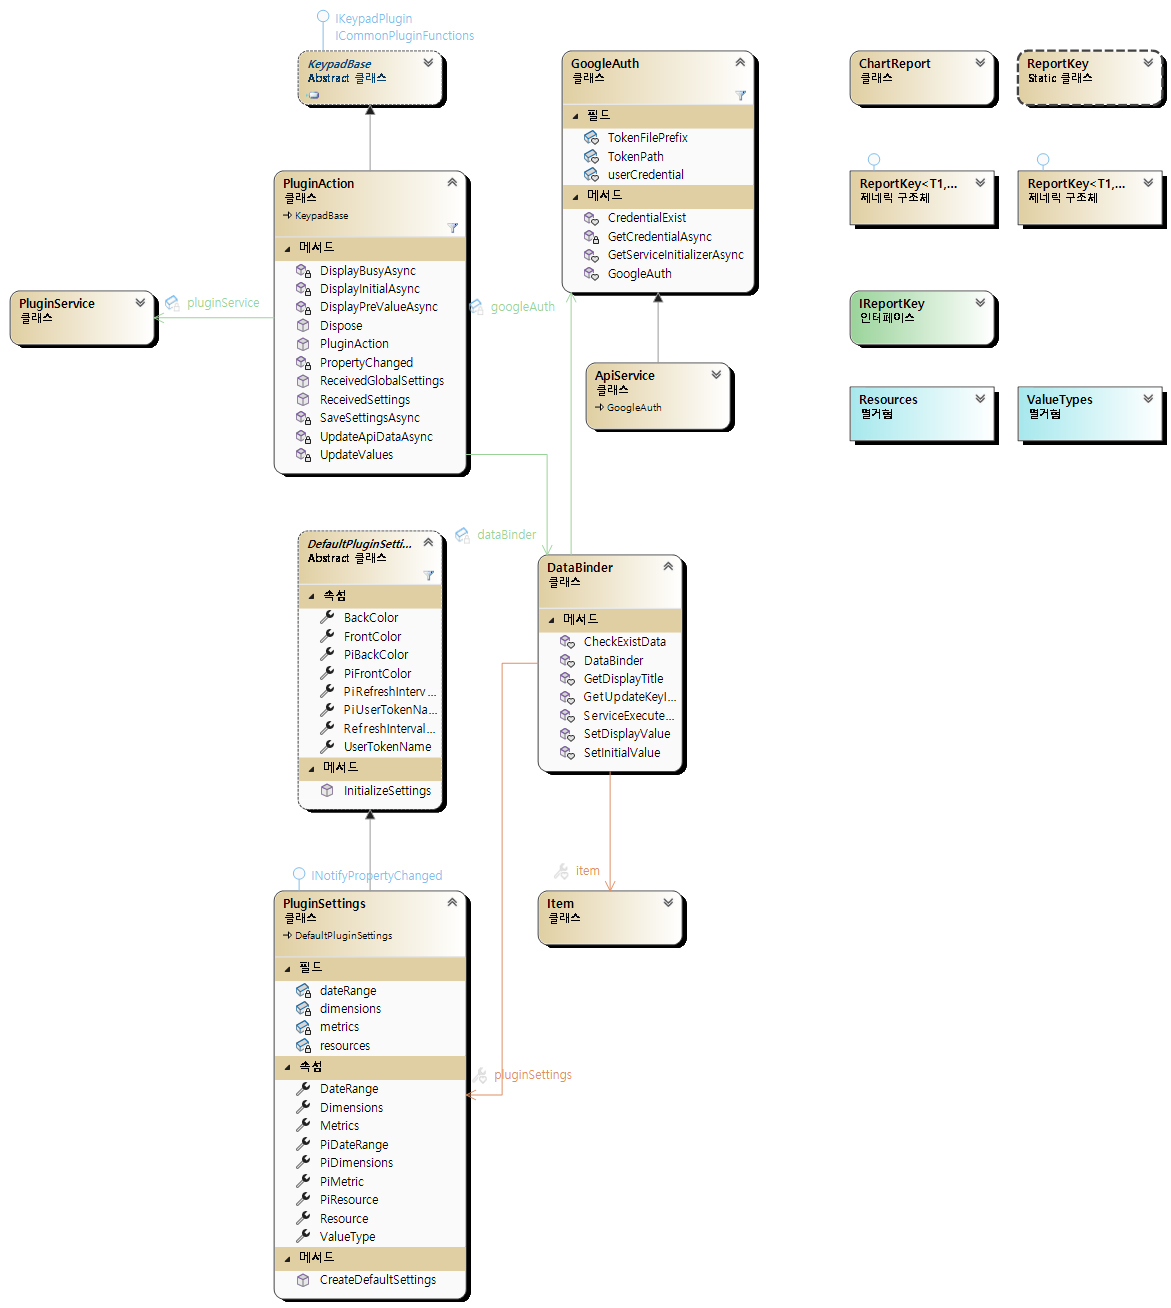
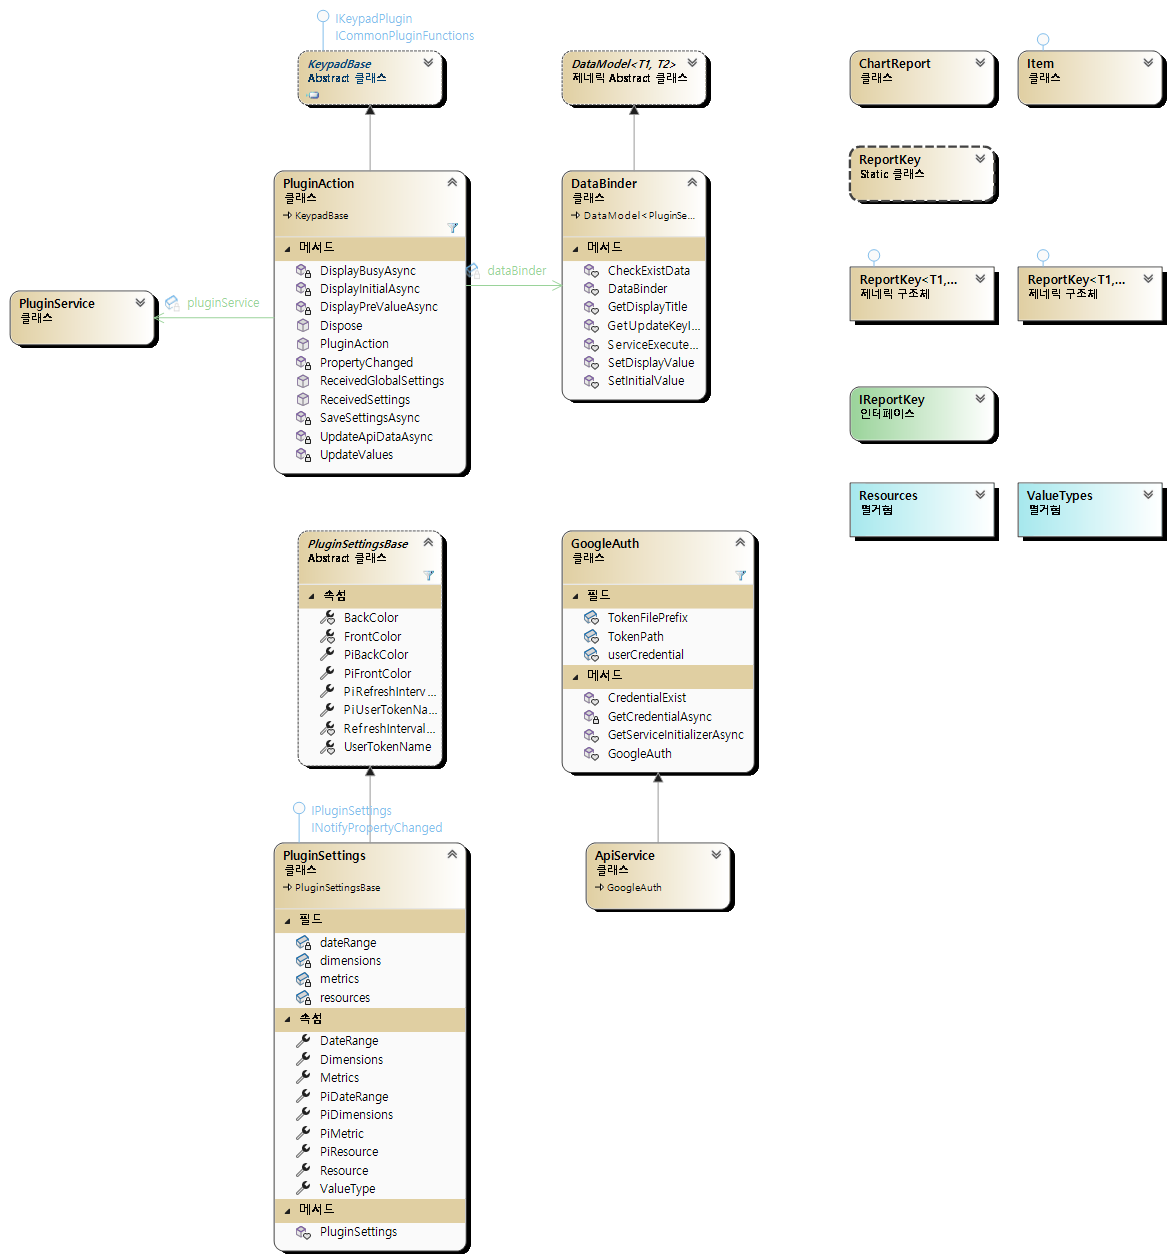
PI 코드 정리 외

diff --git a/kr.devany.googleapi.sdPlugin/propertyInspector/adsensemanagement/index.html b/kr.devany.googleapi.sdPlugin/propertyInspector/adsensemanagement/index.html
@@ -1,90 +1,119 @@
 <!DOCTYPE html>
 <html>
 <head>
-	<meta charset="utf-8" />
-	<title>Google AdSense</title>
-	<link rel="stylesheet" href="https://cdn.jsdelivr.net/gh/barraider/streamdeck-easypi@latest/src/sdpi.css">
-	<script src="https://cdn.jsdelivr.net/gh/barraider/streamdeck-easypi@latest/src/sdtools.common.js"></script>
-
-	<script src="PluginActionPI.js"></script>
+    <meta charset="utf-8" />
+    <title>Google AdSense</title>
+    <link rel="stylesheet" href="https://cdn.jsdelivr.net/gh/barraider/streamdeck-easypi@latest/src/sdpi.css">
+    <link rel="stylesheet" href="https://cdn.jsdelivr.net/gh/barraider/streamdeck-easypi@master/src/rangeTooltip.css">
+    <script src="https://cdn.jsdelivr.net/gh/barraider/streamdeck-easypi@latest/src/sdtools.common.js"></script>
+    <script src="https://cdn.jsdelivr.net/gh/barraider/streamdeck-easypi@latest/src/rangeTooltip.js"></script>
+    <script src="PluginActionPI.js"></script>
 </head>
 
 <body>
-	<div class="sdpi-wrapper">
-		<div class="sdpi-item" id="dvResource">
-			<div class="sdpi-item-label">Resource Type</div>
-			<select class="sdpi-item-value select sdProperty" id="resource" oninput="setSettings()">
-				<option value="Payments" selected>Payments</option>
-				<option value="Reports">Reports</option>
-				<option value="Dimensions">Dimensions</option>
-			</select>
-		</div>
-		<div class="sdpi-item" id="dvDateRange">
-			<div class="sdpi-item-label">Date Range</div>
-			<select class="sdpi-item-value select sdProperty" id="dateRange" oninput="setSettings()">
-				<option value="TODAY">Today</option>
-				<option value="YESTERDAY">Yesterday</option>
-				<option value="MONTHTODATE">Month to Date</option>
-				<option value="YEARTODATE">Year to Date</option>
-				<option value="LAST7DAYS">Last 7 Days</option>
-				<option value="LAST30DAYS">Last 30 Days</option>
-			</select>
-		</div>
-		<div class="sdpi-item" id="dvMetrics">
-			<div class="sdpi-item-label">Metrics</div>
-			<select class="sdpi-item-value select sdProperty" id="metrics" oninput="setSettings()">
-				<option value="PAGEVIEWS">Page Views</option>
-				<option value="TOTAL_IMPRESSIONS">Total Impressions</option>
-				<option value="IMPRESSIONS">Impressions</option>
-				<option value="CLICKS">Clicks</option>
-				<option value="PAGE_VIEWS_SPAM_RATIO">Page Views Spam Ratio</option>
-				<option value="ACTIVE_VIEW_TIME">Active View Time</option>
-				<option value="ESTIMATEDEARNINGS">Estimated Earnings</option>
-				<option value="PAGE_VIEWS_RPM">Page Views RPM</option>
-				<option value="IMPRESSIONS_RPM">Impressions RPM</option>
-				<option value="COST_PER_CLICK">Cost Per Click</option>
-				<option value="TOTAL_EARNINGS">Total Earnings</option>
-				<option value="WEBSEARCH_RESULT_PAGES">Websearch Result Pages</option>
-			</select>
-		</div>
-		<div class="sdpi-item" id="dvDimensions">
-			<div class="sdpi-item-label">Dimensions</div>
-			<select class="sdpi-item-value select sdProperty" id="dimensions" oninput="setSettings()">
-				<option value="DATE">Date</option>
-				<option value="WEEK">Week</option>
-				<option value="MONTH">Month</option>
-				<option value="AD_CLIENT_ID">AD Client ID</option>
-				<option value="HOSTED_AD_CLIENT_ID">Hosted AD Client ID</option>
-				<option value="PRODUCT_NAME">Product Name</option>
-				<option value="AD_UNIT_NAME">AD Unit Name</option>
-				<option value="AD_UNIT_SIZE_NAME">AD Unit Size Name</option>
-				<option value="OWNED_SITE_DOMAIN_NAME">Owned Site Domain Name</option>
-				<option value="URL_CHANNEL_NAME">URL Channel Name</option>
-				<option value="DOMAIN_NAME">Domain Name</option>
-				<option value="COUNTRY_NAME">Country Name</option>
-				<option value="PLATFORM_TYPE_NAME">Platform Type Name</option>
-				<option value="TARGETING_TYPE_NAME">Targeting Type Name</option>
-				<option value="CONTENT_PLATFORM_NAME">Content Platform Name</option>
-				<option value="AD_PLACEMENT_NAME">AD Placement Name</option>
-				<option value="REQUESTED_AD_TYPE_NAME">Requested AD Type Name</option>
-				<option value="SERVED_AD_TYPE_NAME">Served AD Type Name</option>
-				<option value="AD_FORMAT_NAME">AD Format Name</option>
-				<option value="DOMAIN_REGISTRANT">Domain Registrant</option>
-				<option value="WEBSEARCH_QUERY_STRING">Websearch Query String</option>
-			</select>
-		</div>
-		<div type="color" class="sdpi-item" id="dvFrontolor">
-			<div class="sdpi-item-label">Front Color</div>
-			<input type="color" class="sdpi-item-value sdProperty" value="#FFFFFF" id="frontColor" oninput="setSettings()">
-		</div>
-		<div type="color" class="sdpi-item" id="dvBackColor">
-			<div class="sdpi-item-label">Back Color</div>
-			<input type="color" class="sdpi-item-value sdProperty" value="#000000" id="backColor" oninput="setSettings()">
-		</div>
-		<div type="text" class="sdpi-item" id="dvUserTokenName">
-			<div class="sdpi-item-label">User Token Name</div>
-			<input type="text" class="sdpi-item-value sdProperty" value="user" id="userTokenName" onkeypress="javascript:if(event.keyCode == 13) setSettings();">
-		</div>
-	</div>
+    <div class="sdpi-wrapper">
+        <div type="group" class="sdpi-item">
+            <div class="sdpi-item-label">Google Parameter</div>
+            <div class="sdpi-item-group">
+                <div class="sdpi-item">
+                    <div class="sdpi-item-label">Resource Type</div>
+                    <select class="sdpi-item-value select sdProperty" id="resource" oninput="setSettings()">
+                        <option value="Payments" selected>Payments</option>
+                        <option value="Reports">Reports</option>
+                        <option value="Dimensions">Dimensions</option>
+                    </select>
+                </div>
+                <div class="sdpi-item">
+                    <div class="sdpi-item-label">Date Range</div>
+                    <select class="sdpi-item-value select sdProperty" id="dateRange" oninput="setSettings()">
+                        <option value="TODAY">Today</option>
+                        <option value="YESTERDAY">Yesterday</option>
+                        <option value="MONTHTODATE">Month to Date</option>
+                        <option value="YEARTODATE">Year to Date</option>
+                        <option value="LAST7DAYS">Last 7 Days</option>
+                        <option value="LAST30DAYS">Last 30 Days</option>
+                    </select>
+                </div>
+                <div class="sdpi-item">
+                    <div class="sdpi-item-label">Metrics</div>
+                    <select class="sdpi-item-value select sdProperty" id="metrics" oninput="setSettings()">
+                        <option value="PAGEVIEWS">Page Views</option>
+                        <option value="TOTAL_IMPRESSIONS">Total Impressions</option>
+                        <option value="IMPRESSIONS">Impressions</option>
+                        <option value="CLICKS">Clicks</option>
+                        <option value="PAGE_VIEWS_SPAM_RATIO">Page Views Spam Ratio</option>
+                        <option value="ACTIVE_VIEW_TIME">Active View Time</option>
+                        <option value="ESTIMATEDEARNINGS">Estimated Earnings</option>
+                        <option value="PAGE_VIEWS_RPM">Page Views RPM</option>
+                        <option value="IMPRESSIONS_RPM">Impressions RPM</option>
+                        <option value="COST_PER_CLICK">Cost Per Click</option>
+                        <option value="TOTAL_EARNINGS">Total Earnings</option>
+                        <option value="WEBSEARCH_RESULT_PAGES">Websearch Result Pages</option>
+                    </select>
+                </div>
+                <div class="sdpi-item" id="dvDimensions">
+                    <div class="sdpi-item-label">Dimensions</div>
+                    <select class="sdpi-item-value select sdProperty" id="dimensions" oninput="setSettings()">
+                        <option value="DATE">Date</option>
+                        <option value="WEEK">Week</option>
+                        <option value="MONTH">Month</option>
+                        <option value="AD_CLIENT_ID">AD Client ID</option>
+                        <option value="HOSTED_AD_CLIENT_ID">Hosted AD Client ID</option>
+                        <option value="PRODUCT_NAME">Product Name</option>
+                        <option value="AD_UNIT_NAME">AD Unit Name</option>
+                        <option value="AD_UNIT_SIZE_NAME">AD Unit Size Name</option>
+                        <option value="OWNED_SITE_DOMAIN_NAME">Owned Site Domain Name</option>
+                        <option value="URL_CHANNEL_NAME">URL Channel Name</option>
+                        <option value="DOMAIN_NAME">Domain Name</option>
+                        <option value="COUNTRY_NAME">Country Name</option>
+                        <option value="PLATFORM_TYPE_NAME">Platform Type Name</option>
+                        <option value="TARGETING_TYPE_NAME">Targeting Type Name</option>
+                        <option value="CONTENT_PLATFORM_NAME">Content Platform Name</option>
+                        <option value="AD_PLACEMENT_NAME">AD Placement Name</option>
+                        <option value="REQUESTED_AD_TYPE_NAME">Requested AD Type Name</option>
+                        <option value="SERVED_AD_TYPE_NAME">Served AD Type Name</option>
+                        <option value="AD_FORMAT_NAME">AD Format Name</option>
+                        <option value="DOMAIN_REGISTRANT">Domain Registrant</option>
+                        <option value="WEBSEARCH_QUERY_STRING">Websearch Query String</option>
+                    </select>
+                </div>
+                <div type="text" class="sdpi-item" id="dvUserTokenName">
+                    <div class="sdpi-item-label">User Token Name</div>
+                    <input type="text" class="sdpi-item-value sdProperty" value="user" id="userTokenName" onkeypress="javascript:if(event.keyCode == 13) setSettings();">
+                </div>
+            </div>
+
+            <div type="group" class="sdpi-item">
+                <div class="sdpi-item-label">Refresh Interval</div>
+                <div class="sdpi-item-group">
+                    <div type="range" class="sdpi-item sdShowTooltip">
+                        <div class="sdpi-item-label">Minute</div>
+                        <div class="sdpi-item-value">
+                            <span class="clickable" value="0">0</span>
+                            <input type="range" min="0" max="60" value=0 list="numbers" data-suffix="" class="sdProperty" id="refreshIntervalMin" oninput="setSettings()">
+                            <span class="clickable" value="60">60</span>
+                            <label for="refreshIntervalMin" class="rangeLabel"></label>
+                        </div>
+                    </div>
+                </div>
+            </div>
+
+
+            <div type="group" class="sdpi-item">
+                <div class="sdpi-item-label">Color</div>
+                <div class="sdpi-item-group">
+                    <div type="color" class="sdpi-item" id="dvFrontolor">
+                        <div class="sdpi-item-label">Front Color</div>
+                        <input type="color" class="sdpi-item-value sdProperty" value="#FFFFFF" id="frontColor" oninput="setSettings()">
+                    </div>
+                    <div type="color" class="sdpi-item" id="dvBackColor">
+                        <div class="sdpi-item-label">Back Color</div>
+                        <input type="color" class="sdpi-item-value sdProperty" value="#000000" id="backColor" oninput="setSettings()">
+                    </div>
+                </div>
+            </div>
+            <div class="sdpi-info-label hidden" style="top: -1000;" value="">툴팁</div>
+        </div>
+    </div>
 </body>
 </html>

diff --git a/kr.devany.googleapi.sdPlugin/propertyInspector/googlecalendar/index.html b/kr.devany.googleapi.sdPlugin/propertyInspector/googlecalendar/index.html
@@ -4,25 +4,52 @@
     <meta charset="utf-8" />
     <title>Google Calendar</title>
     <link rel="stylesheet" href="https://cdn.jsdelivr.net/gh/barraider/streamdeck-easypi@latest/src/sdpi.css">
+    <link rel="stylesheet" href="https://cdn.jsdelivr.net/gh/barraider/streamdeck-easypi@master/src/rangeTooltip.css">
     <script src="https://cdn.jsdelivr.net/gh/barraider/streamdeck-easypi@latest/src/sdtools.common.js"></script>
-
+    <script src="https://cdn.jsdelivr.net/gh/barraider/streamdeck-easypi@latest/src/rangeTooltip.js"></script>
     <script src="PluginActionPI.js"></script>
 </head>
 
 <body>
     <div class="sdpi-wrapper">
-        <div type="color" class="sdpi-item" id="dvFrontolor">
-            <div class="sdpi-item-label">Front Color</div>
-            <input type="color" class="sdpi-item-value sdProperty" value="#FFFFFF" id="frontColor" oninput="setSettings()">
-        </div>
-        <div type="color" class="sdpi-item" id="dvBackColor">
-            <div class="sdpi-item-label">Back Color</div>
-            <input type="color" class="sdpi-item-value sdProperty" value="#000000" id="backColor" oninput="setSettings()">
-        </div>
-        <div type="text" class="sdpi-item" id="dvUserTokenName">
+        <div type="text" class="sdpi-item">
             <div class="sdpi-item-label">User Token Name</div>
             <input type="text" class="sdpi-item-value sdProperty" value="user" id="userTokenName" onkeypress="javascript:if(event.keyCode == 13) setSettings();">
         </div>
+
+        <div type="group" class="sdpi-item">
+            <div class="sdpi-item-label">Refresh Interval</div>
+            <div class="sdpi-item-group">
+                <div type="range" class="sdpi-item sdShowTooltip">
+                    <div class="sdpi-item-label">Minute</div>
+                    <div class="sdpi-item-value">
+                        <span class="clickable" value="0">0</span>
+                        <input type="range" min="0" max="60" value=0 list="numbers" data-suffix="" class="sdProperty" id="refreshIntervalMin" oninput="setSettings()">
+                        <span class="clickable" value="60">60</span>
+                        <label for="refreshIntervalMin" class="rangeLabel"></label>
+                    </div>
+                </div>
+            </div>
+        </div>
+
+        <div type="group" class="sdpi-item">
+            <div class="sdpi-item-label">Color</div>
+            <div class="sdpi-item-group">
+                <div type="color" class="sdpi-item">
+                    <div class="sdpi-item-label">Front Color</div>
+                    <input type="color" class="sdpi-item-value sdProperty" value="#FFFFFF" id="frontColor" oninput="setSettings()">
+                </div>
+                <div type="color" class="sdpi-item">
+                    <div class="sdpi-item-label">Back Color</div>
+                    <input type="color" class="sdpi-item-value sdProperty" value="#000000" id="backColor" oninput="setSettings()">
+                </div>
+                <div type="color" class="sdpi-item">
+                    <div class="sdpi-item-label">Circle Color</div>
+                    <input type="color" class="sdpi-item-value sdProperty" value="#FF0000" id="circleColor" oninput="setSettings()">
+                </div>
+            </div>
+        </div>
+        <div class="sdpi-info-label hidden" style="top: -1000;" value="">툴팁</div>
     </div>
 </body>
 </html>

diff --git a/kr.devany.googleapi.sdPlugin/propertyInspector/gmail/index.html b/kr.devany.googleapi.sdPlugin/propertyInspector/gmail/index.html
@@ -18,7 +18,7 @@
         </div>
 
         <div type="group" class="sdpi-item">
-            <div class="sdpi-item-label">Color</div>
+            <div class="sdpi-item-label">Refresh Interval</div>
             <div class="sdpi-item-group">
                 <div type="range" class="sdpi-item sdShowTooltip">
                     <div class="sdpi-item-label">Minute</div>

diff --git a/src/GoogleAPIs/GoogleCalendar/DataBinder.cs b/src/GoogleAPIs/GoogleCalendar/DataBinder.cs
@@ -4,9 +4,6 @@ using System.Drawing;
 using System.Linq;
 using System.Threading.Tasks;
 
-using BarRaider.SdTools.Wrappers;
-using BarRaider.SdTools;
-
 using Google.Apis.Calendar.v3;
 
 namespace StreamDock.Plugins.GoogleAPIs.GoogleCalendar

diff --git a/src/GoogleAPIs/AdSenseManagement/PluginAction.cs b/src/GoogleAPIs/AdSenseManagement/PluginAction.cs
@@ -1,6 +1,5 @@
 using System;
 using System.ComponentModel;
-using System.Drawing;
 using System.Threading.Tasks;
 
 using BarRaider.SdTools;

diff --git a/src/GoogleAPIs/Gmail/PluginAction.cs b/src/GoogleAPIs/Gmail/PluginAction.cs
@@ -1,6 +1,5 @@
 using System;
 using System.ComponentModel;
-using System.Drawing;
 using System.Threading.Tasks;
 
 using BarRaider.SdTools;

diff --git a/src/GoogleAPIs/GoogleCalendar/PluginAction.cs b/src/GoogleAPIs/GoogleCalendar/PluginAction.cs
@@ -1,6 +1,5 @@
 using System;
 using System.ComponentModel;
-using System.Drawing;
 using System.Linq;
 using System.Threading.Tasks;
 
